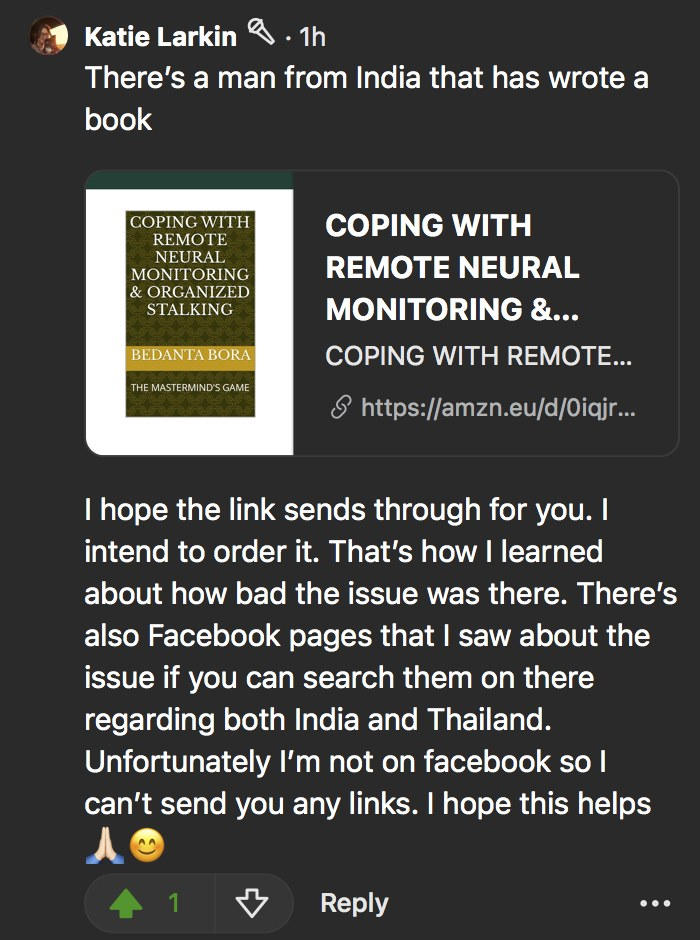
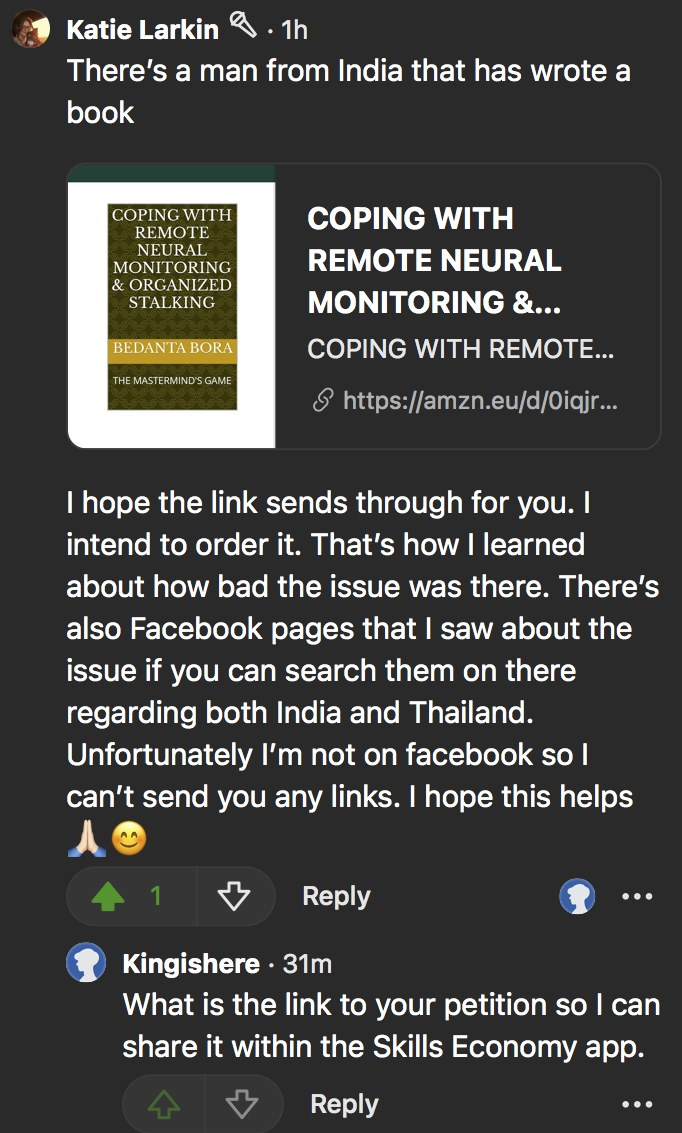
docs: note Katie Larkin's petition, extend screenshot to the follow-up
Claude-Session: https://claude.ai/code/session_01XDZ6SVphmZCuffexJKMs39

Changed region(s): [[0.0, 0.0, 0.9853, 0.9872], [0.9238, 0.7713, 0.9545, 0.8021]]

diff --git a/wiki-site/content/posts/what-petitions-do-you-know-of.md b/wiki-site/content/posts/what-petitions-do-you-know-of.md
@@ -20,9 +20,11 @@ Katie Larkin (https://www.quora.com/profile/Katie-Larkin-53) is one to follow. S
 
 I asked her, in the US-PSYOPS-TARGETED-INDIVIDUALS space, about a comment she had made on people in India protesting about DEWs, Directed Energy Weapons (see the [Dictionary](https://chargingthefuture.github.io/chargingthefuture/article/chargingthefuture/Dictionary)). She answered with a book.
 
-![Katie Larkin's reply on Quora, November 16, 2026: "There's a man from India that has wrote a book." Below it, a link preview for the book Coping with Remote Neural Monitoring & Organized Stalking by Bedanta Bora, subtitled The Mastermind's Game. Then: "I hope the link sends through for you. I intend to order it. That's how I learned about how bad the issue was there. There's also Facebook pages that I saw about the issue if you can search them on there regarding both India and Thailand. Unfortunately I'm not on facebook so I can't send you any links. I hope this helps."](images/katie-larkin-comment-2026-11-16.jpg)
+![Katie Larkin's reply on Quora, November 16, 2026: "There's a man from India that has wrote a book." Below it, a link preview for the book Coping with Remote Neural Monitoring & Organized Stalking by Bedanta Bora, subtitled The Mastermind's Game. Then: "I hope the link sends through for you. I intend to order it. That's how I learned about how bad the issue was there. There's also Facebook pages that I saw about the issue if you can search them on there regarding both India and Thailand. Unfortunately I'm not on facebook so I can't send you any links. I hope this helps." Below it, Farah Brunache, as Kingishere, replies: "What is the link to your petition so I can share it within the Skills Economy app."](images/katie-larkin-comment-2026-11-16.jpg)
 
 She also mentioned Facebook pages about the same issue in India and Thailand. If you know them, send those too.
+
+Katie has a petition of her own. I have asked her for its address so it can be shared in the Skills Economy.
 
 ## The book
 
